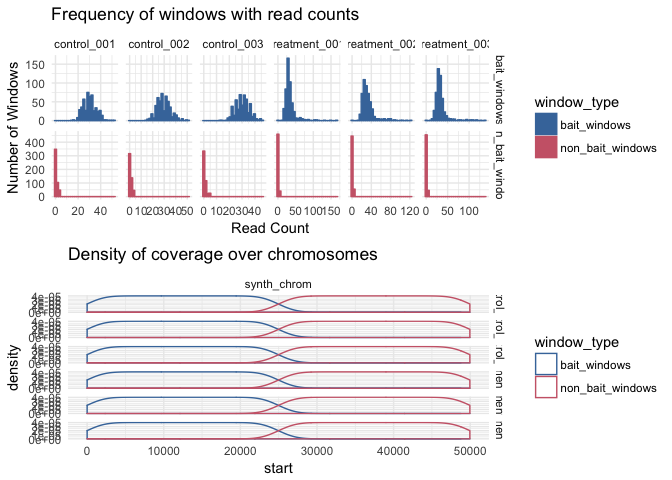
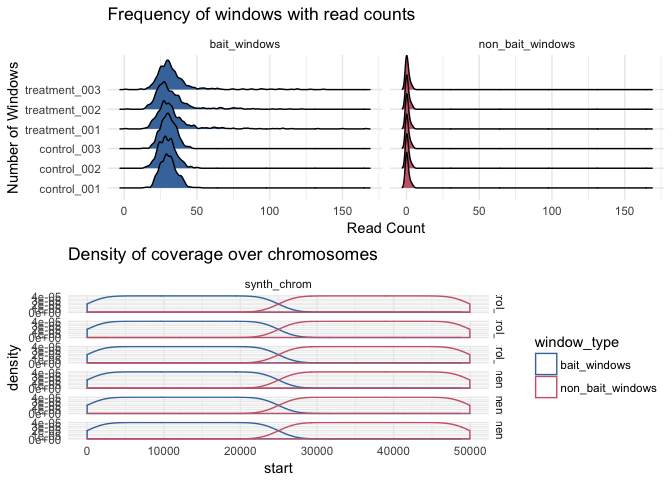
sort

Changed region(s): [[0.0312, 0.0, 0.9688, 0.5]]

diff --git a/README.md b/README.md
@@ -4,7 +4,6 @@
 [![packageversion](https://img.shields.io/badge/Package%20version-0.3.1-orange.svg?style=flat-square)](commits/master)
 ----
 [![Last-changedate](https://img.shields.io/badge/last%20change-"2017--07--19"-yellowgreen.svg)](/commits/master)
-
 <!-- README.md is generated from README.Rmd. Please edit that file -->
 atacr
 =====
@@ -80,7 +79,7 @@ summary(sim_counts)
 
 ``` r
 plot(sim_counts)
-#> `stat_bin()` using `bins = 30`. Pick better value with `binwidth`.
+#> Picking joint bandwidth of 0.966
 ```
 
 ![](README-unnamed-chunk-2-1.png)
